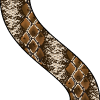
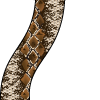
Add better button/controller logic. Add new snake graphics

diff --git a/js/script.min.js b/js/script.min.js
@@ -1,4 +1,4 @@
 /*
  snake-game 2016-02-29 
 */
-function quad(a){return $("[data-xcoord="+a[0]+"][data-ycoord="+a[1]+"]")}function makeFruits(){var a=Math.floor(Math.random()*(bd-1-0))+1,b=Math.floor(Math.random()*(bd-1-0))+1;quad([a,b]).addClass("fruit"),console.log("New Fruit: "+a+","+b)}function setup(){$(".board").html(""),$(".board").css("height",$(".board").width()),score=0,$("#score").text(score),paused=!0,direction="right",snake=[[~~(bd/2)-3,~~(bd/2)],[~~(bd/2)-2,~~(bd/2)],[~~(bd/2)-1,~~(bd/2)],[~~(bd/2),~~(bd/2)]],head=snake.length-1;for(var a=0;bd>a;a++)for(var b=0;bd>b;b++)$(".board").append('<div class="quadrant" data-xcoord="'+b+'" data-ycoord="'+a+'"></div>');makeFruits(),quad(snake[head]).addClass("snake snake-head").addClass(direction),quad(snake[head-1]).addClass("snake snake-body-1").addClass(direction),quad(snake[head-2]).addClass("snake snake-body-main").addClass(direction),quad(snake[0]).addClass("snake snake-tail").addClass(direction)}function pauseGame(){paused?(progress_snake(snake),$("#start_stop").text("Pause"),paused=!1):(paused=!0,$("#start_stop").text("Resume"))}function isOver(a){return quad(a).hasClass("snake")?(console.log("Over! Bit its tail! "+a),!0):a[0]>=bd||a[1]>=bd||a[0]<0||a[1]<0?(console.log("Over! Crashed into the wall! "+a),!0):!1}function growSnake(a){snake.push(a),head=snake.length-1}function isFruit(a){return quad(a).hasClass("fruit")?(score++,$("#score").text(score),!0):!1}function progress_snake(a){var b=a[head][0],c=a[head][1],d=[b,c];switch(direction){case"left":d[0]--;break;case"up":d[1]--;break;case"right":d[0]++;break;case"down":d[1]++}var e=setTimeout(function(){if(isOver(d))clearTimeout(e);else{if(isFruit(d))quad(d).removeClass("fruit"),makeFruits(),growSnake(d);else{quad(a[0]).removeClass().addClass("quadrant");for(var b=0;b<a.length-1;b++)a[b]=a[b+1];a[head]=d}quad(a[head]).removeClass().addClass("quadrant snake snake-head").addClass(direction),quad(a[head-1]).addClass("snake snake-body-1").removeClass("snake-head"),quad(a[head-2]).addClass("snake snake-body-main").removeClass("snake-body-1").toggleClass("flip"),quad(a[0]).addClass("snake snake-tail").removeClass("snake-body-main").toggleClass("flip"),isFlip&&quad(a[head],a[head-1],a[head-2],a[0]).toggleClass("flip"),isFlip=!isFlip,paused||progress_snake(a)}},100)}var direction,snake,head,paused,score,isFlip=!0,bd=25;$(document).ready(function(){setup(),window.addEventListener("resize",function(){$(".board").css("height",$(".board").width())},!1),$("#start_stop").on("tap",function(){return"Pause"==$(this).text()?void pauseGame():"Resume"==$(this).text()?void pauseGame():"Start"==$(this).text()?($(this).text("Pause"),paused=!1,void progress_snake(snake)):void 0}),$("#reset").on("tap",function(){$("#start_stop").text("Start"),setup()}),$("#more_frogs").on("tap",function(){makeFruits()}),$("#left").on("tap",function(){"right"!=direction&&(direction="left",console.log("left"))}),$("#up").on("tap",function(){"down"!=direction&&(direction="up",console.log("up"))}),$("#right").on("tap",function(){"left"!=direction&&(direction="right",console.log("right"))}),$("#down").on("tap",function(){"up"!=direction&&(direction="down",console.log("down"))})}),$(document).keydown(function(a){switch(a.which){case 37:"right"!=direction&&(direction="left",$("#left").addClass("pressed"));break;case 38:"down"!=direction&&(direction="up",$("#up").addClass("pressed"));break;case 39:"left"!=direction&&(direction="right",$("#right").addClass("pressed"));break;case 40:"up"!=direction&&(direction="down",$("#down").addClass("pressed"));break;case 80:case 27:case 32:pauseGame();break;default:return}a.preventDefault()}),$(document).keyup(function(a){switch(a.which){case 37:$("#left").removeClass("pressed"),console.log("up");break;case 38:$("#up").removeClass("pressed");break;case 39:$("#right").removeClass("pressed");break;case 40:$("#down").removeClass("pressed");break;default:return}a.preventDefault()});
+function quad(a){return $("[data-xcoord="+a[0]+"][data-ycoord="+a[1]+"]")}function makeFruits(){var a=Math.floor(Math.random()*(bd-1-0))+1,b=Math.floor(Math.random()*(bd-1-0))+1;quad([a,b]).addClass("fruit"),console.log("New Fruit: "+a+","+b)}function setup(){$(".board").html(""),$(".board").css("height",$(".board").width()),score=0,$("#score").text(score),paused=!0,direction="right",snake=[[~~(bd/2)-3,~~(bd/2)],[~~(bd/2)-2,~~(bd/2)],[~~(bd/2)-1,~~(bd/2)],[~~(bd/2),~~(bd/2)]],head=snake.length-1;for(var a=0;bd>a;a++)for(var b=0;bd>b;b++)$(".board").append('<div class="quadrant" data-xcoord="'+b+'" data-ycoord="'+a+'"></div>');makeFruits(),quad(snake[head]).addClass("snake snake-head").addClass(direction),quad(snake[head-1]).addClass("snake snake-body-1").addClass(direction),quad(snake[head-2]).addClass("snake snake-body-main").addClass(direction),quad(snake[0]).addClass("snake snake-tail").addClass(direction)}function pauseGame(){paused?(progress_snake(snake),$("#start_stop").text("Pause"),paused=!1):(paused=!0,$("#start_stop").text("Resume"))}function isOver(a){return quad(a).hasClass("snake")?(console.log("Over! Bit its tail! "+a),!0):a[0]>=bd||a[1]>=bd||a[0]<0||a[1]<0?(console.log("Over! Crashed into the wall! "+a),!0):!1}function growSnake(a){snake.push(a),head=snake.length-1}function isFruit(a){return quad(a).hasClass("fruit")?(score++,$("#score").text(score),!0):!1}function progress_snake(a){var b=a[head][0],c=a[head][1],d=[b,c];switch(direction){case"left":d[0]--;break;case"up":d[1]--;break;case"right":d[0]++;break;case"down":d[1]++}var e=setTimeout(function(){if(isOver(d))clearTimeout(e);else{if(isFruit(d))quad(d).removeClass("fruit"),makeFruits(),growSnake(d);else{quad(a[0]).removeClass().addClass("quadrant");for(var b=0;b<a.length-1;b++)a[b]=a[b+1];a[head]=d}quad(a[head]).removeClass().addClass("quadrant snake snake-head").addClass(direction),quad(a[head-1]).addClass("snake snake-body-1").removeClass("snake-head"),quad(a[head-2]).addClass("snake snake-body-main").removeClass("snake-body-1").toggleClass("flip"),quad(a[0]).addClass("snake snake-tail").removeClass("snake-body-main").toggleClass("flip"),isFlip&&quad(a[head],a[head-1],a[head-2],a[0]).toggleClass("flip"),isFlip=!isFlip,paused||progress_snake(a)}},100)}function goUp(){"down"!=direction&&(direction="up",console.log("up"))}function goDown(){"up"!=direction&&(direction="down",console.log("down"))}function goLeft(){"right"!=direction&&(direction="left",console.log("left"))}function goRight(){"left"!=direction&&(direction="right",console.log("right"))}var direction,snake,head,paused,score,isFlip=!0,isTurn=!1,bd=25;$(document).ready(function(){setup(),window.addEventListener("resize",function(){$(".board").css("height",$(".board").width())},!1),$("#start_stop").on("tap",function(){return"Pause"==$(this).text()?void pauseGame():"Resume"==$(this).text()?void pauseGame():"Start"==$(this).text()?($(this).text("Pause"),paused=!1,void progress_snake(snake)):void 0}),$("#reset").on("tap",function(){$("#start_stop").text("Start"),setup()}),$("#more_frogs").on("tap",function(){makeFruits()}),$("#left").on("tap",function(){goLeft()}),$("#up").on("tap",function(){goUp()}),$("#right").on("tap",function(){goRight()}),$("#down").on("tap",function(){goDown()})}),$(document).keydown(function(a){switch(a.which){case 37:goLeft(),$("#left").addClass("pressed");break;case 38:goUp(),$("#up").addClass("pressed");break;case 39:goRight(),$("#right").addClass("pressed");break;case 40:goDown(),$("#down").addClass("pressed");break;case 80:case 27:case 32:pauseGame();break;default:return}a.preventDefault()}),$(document).keyup(function(a){switch(a.which){case 37:$("#left").removeClass("pressed");break;case 38:$("#up").removeClass("pressed");break;case 39:$("#right").removeClass("pressed");break;case 40:$("#down").removeClass("pressed");break;default:return}a.preventDefault()});

diff --git a/css/style.min.css b/css/style.min.css
@@ -1,1 +1,1 @@
-#legend .game_controller button .fa,header{font-size:2rem}*{outline:0}:root{background:#000;color:#fff;font-family:Arial}body{background-color:transparent}header{color:#fff;padding:4px}header .game_buttons{text-align:right}header .game_buttons button{border-radius:100%;height:75px;width:75px;margin:0 0 0 .5rem;padding:0;vertical-align:top;border:none}section{padding:0 20px}.right{-o-transform:rotate(90deg);-ms-transform:rotate(90deg);-webkit-transform:rotate(90deg);transform:rotate(90deg)}.right.flip{-moz-transform:scaleY(-1) rotate(90deg);-o-transform:scaleY(-1) rotate(90deg);-webkit-transform:scaleY(-1) rotate(90deg);transform:scaleY(-1) rotate(90deg);filter:FlipV;-ms-filter:"FlipV"}.down{-o-transform:rotate(180deg);-ms-transform:rotate(180deg);-webkit-transform:rotate(180deg);transform:rotate(180deg)}.down.flip{-moz-transform:scaleX(-1) rotate(180deg);-o-transform:scaleX(-1) rotate(180deg);-webkit-transform:scaleX(-1) rotate(180deg);transform:scaleX(-1) rotate(180deg);filter:FlipH;-ms-filter:"FlipH"}.left{-o-transform:rotate(-90deg);-ms-transform:rotate(-90deg);-webkit-transform:rotate(-90deg);transform:rotate(-90deg)}.left.flip{-moz-transform:scaleY(-1) rotate(-90deg);-o-transform:scaleY(-1) rotate(-90deg);-webkit-transform:scaleY(-1) rotate(-90deg);transform:scaleY(-1) rotate(-90deg);filter:FlipV;-ms-filter:"FlipV"}.up{-o-transform:rotate(0);-ms-transform:rotate(0);-webkit-transform:rotate(0);transform:rotate(0)}.up.flip{-moz-transform:scaleX(-1) rotate(0);-o-transform:scaleX(-1) rotate(0);-webkit-transform:scaleX(-1) rotate(0);transform:scaleX(-1) rotate(0);filter:FlipH;-ms-filter:"FlipH"}.board{box-sizing:content-box;background:green;width:100%;max-width:500px;border:3px double #fff;margin:auto;padding:0}.board .quadrant{box-sizing:border-box;width:4%;height:4%;float:left;margin:0;padding:0;background-size:cover}.board .snake{background:orange;background-size:cover!important}.board .snake.snake-head{background:url(../images/snake-graphics_02.png)}.board .snake.snake-body-1{background:url(../images/snake-graphics_03.png)}.board .snake.snake-body-main{background:url(../images/snake-graphics_04.png)}.board .snake.snake-tail{background:url(../images/snake-graphics_05.png)}.board .fruit{background:red;border-radius:100%}#legend .game_controller{padding:2rem}#legend .game_controller button{background:#fff;border-radius:10px}#legend .game_controller .pressed{border-style:inset;background:#D9534F;color:#fff}@media screen and (min-width:768px){.game_buttons button{width:100%;max-width:300px}}@media screen and (max-width:768px){header{font-size:1rem}header .game_buttons button{height:40px;width:40px;border-radius:100%}.game_controller button{height:5rem}}
+#legend .game_controller button .fa,header{font-size:2rem}*{outline:0}:root{background:#000;color:#fff;font-family:Arial}body{background-color:transparent}header{color:#fff;padding:4px}header .game_buttons{text-align:right}header .game_buttons button{border-radius:100%;height:75px;width:75px;margin:0 0 0 .5rem;padding:0;vertical-align:top;border:none}section{padding:0 20px}.right{-o-transform:rotate(90deg);-ms-transform:rotate(90deg);-webkit-transform:rotate(90deg);transform:rotate(90deg)}.right.flip{-moz-transform:scaleY(-1) rotate(90deg);-o-transform:scaleY(-1) rotate(90deg);-webkit-transform:scaleY(-1) rotate(90deg);transform:scaleY(-1) rotate(90deg);filter:FlipV;-ms-filter:"FlipV"}.down{-o-transform:rotate(180deg);-ms-transform:rotate(180deg);-webkit-transform:rotate(180deg);transform:rotate(180deg)}.down.flip{-moz-transform:scaleX(-1) rotate(180deg);-o-transform:scaleX(-1) rotate(180deg);-webkit-transform:scaleX(-1) rotate(180deg);transform:scaleX(-1) rotate(180deg);filter:FlipH;-ms-filter:"FlipH"}.left{-o-transform:rotate(-90deg);-ms-transform:rotate(-90deg);-webkit-transform:rotate(-90deg);transform:rotate(-90deg)}.left.flip{-moz-transform:scaleY(-1) rotate(-90deg);-o-transform:scaleY(-1) rotate(-90deg);-webkit-transform:scaleY(-1) rotate(-90deg);transform:scaleY(-1) rotate(-90deg);filter:FlipV;-ms-filter:"FlipV"}.up{-o-transform:rotate(0);-ms-transform:rotate(0);-webkit-transform:rotate(0);transform:rotate(0)}.up.flip{-moz-transform:scaleX(-1) rotate(0);-o-transform:scaleX(-1) rotate(0);-webkit-transform:scaleX(-1) rotate(0);transform:scaleX(-1) rotate(0);filter:FlipH;-ms-filter:"FlipH"}.board{box-sizing:content-box;background:green;width:100%;max-width:500px;border:3px double #fff;margin:auto;padding:0}.board .quadrant{box-sizing:border-box;width:4%;height:4%;float:left;margin:0;padding:0;background-size:cover}.board .snake{background:orange;background-size:cover!important}.board .snake.snake-head{background:url(../images/snake-graphics_02.png)}.board .snake.snake-body-1{background:url(../images/snake-graphics_04.png)}.board .snake.snake-body-main{background:url(../images/snake-graphics_07.png)}.board .snake.snake-tail{background:url(../images/snake-graphics_10.png)}.board .snake .corner.snake-corner{background:url(../images/snake-graphics_08.png)}.board .snake .corner.snake-corner-out{background:url(../images/snake-graphics_05.png)}.board .snake .corner.snake-corner-tail{background:url(../images/snake-graphics_09.png)}.board .fruit{background:red;border-radius:100%}#legend .game_controller{padding:2rem}#legend .game_controller button{background:#fff;border-radius:10px}#legend .game_controller #down:active,#legend .game_controller #left:active,#legend .game_controller #right:active,#legend .game_controller #up:active,#legend .game_controller .pressed{border-style:inset;background:#D9534F;color:#fff}@media screen and (min-width:768px){.game_buttons button{width:100%;max-width:300px}}@media screen and (max-width:768px){header{font-size:1rem}header .game_buttons button{height:40px;width:40px;border-radius:100%}.game_controller button{height:5rem}}
